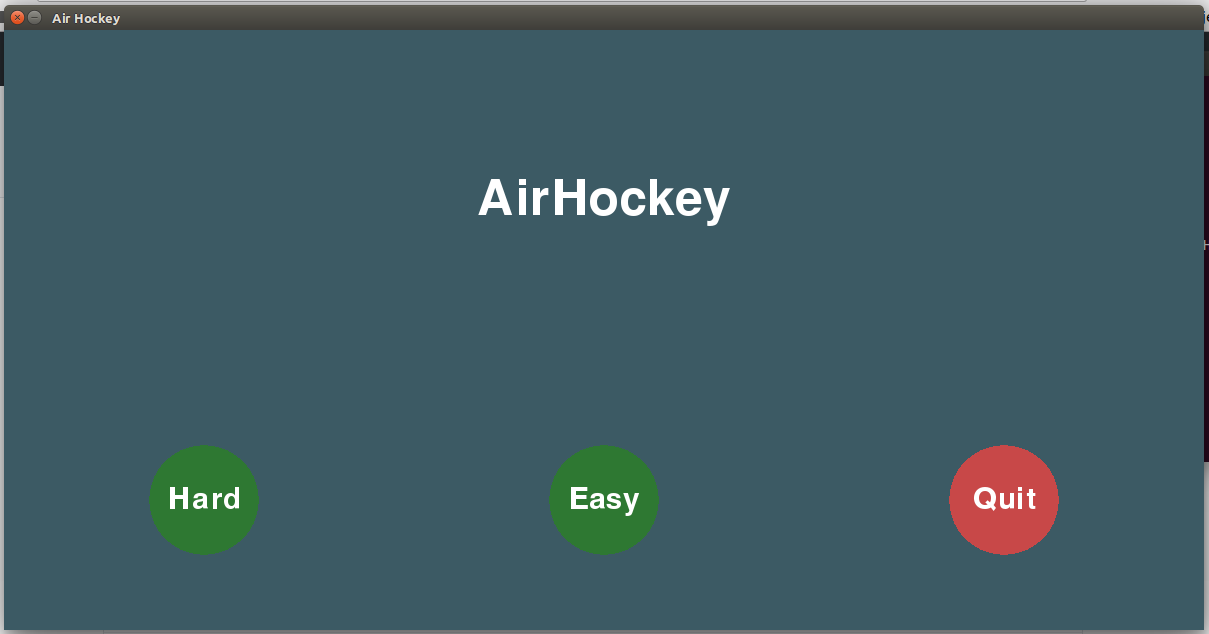
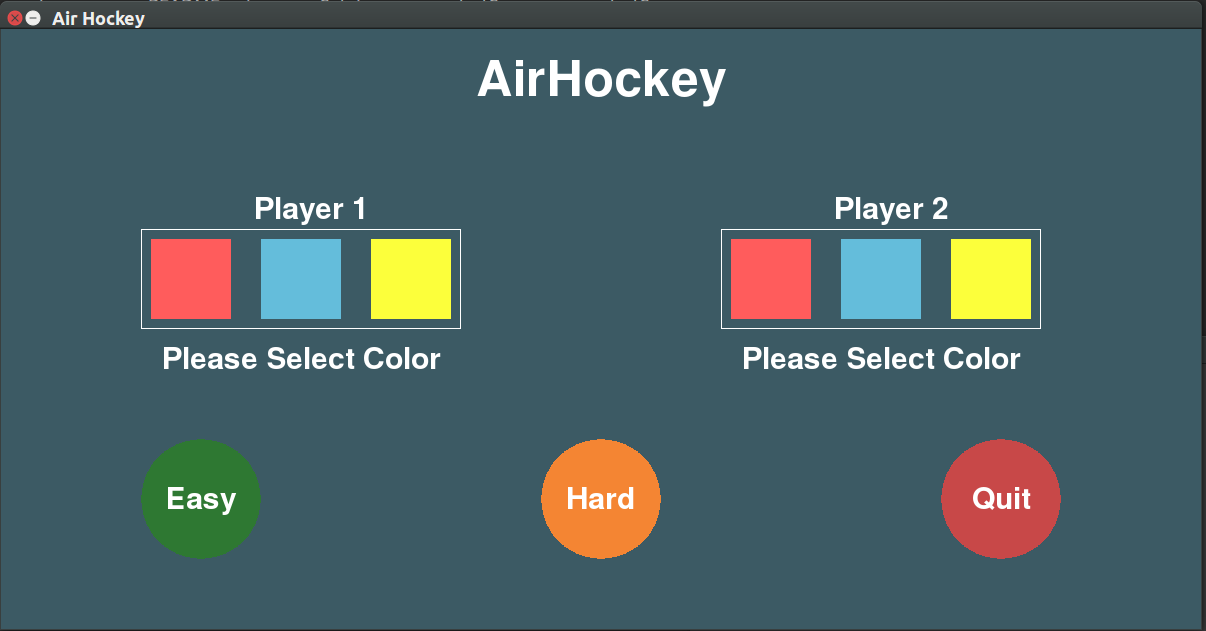
Multiple Changes and bug fixes
Fixes #111 #41 #78

diff --git a/startScreen.py b/startScreen.py
@@ -6,7 +6,7 @@ import sys
 #(dimgreen,green) , (dimred,red) , (dimblue,blue ) , (yellow,dimyellow), (orange, dimorange) 
 colors = [ [(46, 120, 50),(66, 152, 60)] , [(200, 72, 72),(255, 92, 92)] ,
            [(0, 158, 239),(100, 189, 219)] , [(221, 229, 2),(252, 255, 59)],
-           [(232, 114, 46),(244, 133, 51)]] 
+           [(232, 114, 46),(244, 133, 51)]]
 
 
 buttonRadius = 60
@@ -39,6 +39,13 @@ def dispText(screen, text, center, fontAndSize, color):
 
 # function for creating a start screen
 def airHockeyStart(screen, clock, Scrwidth, Scrheight):
+
+    # Player colors set to none initially
+    player1Color = None
+    player2Color = None
+    colorFlag1 = False
+    colorFlag2 = False
+
     while True:
         for event in pygame.event.get():
             if event.type == pygame.QUIT:
@@ -101,30 +108,56 @@ def airHockeyStart(screen, clock, Scrwidth, Scrheight):
                 pygame.draw.rect(screen, colors[x][1], (xposRectRight, yposRectRight, squareSide, squareSide))
             xposRectRight = xposRectRight + squareSide + 30
         if flagLeft == 1:
-            dispText(screen, "selected", (Scrwidth / 4  , yposRectLeft + 120), smallText, (255,255,255))
+            dispText(screen, "Color Selected", (Scrwidth / 4  , yposRectLeft + 120), smallText, player1Color)
         if flagRight == 2:
-            dispText(screen, "selected", (Scrwidth - Scrwidth/4, yposRectLeft + 120), smallText, (255,255,255))
+            dispText(screen, "Color selected", (Scrwidth - Scrwidth/4 - 20, yposRectLeft + 120), smallText, player2Color)
 
-        # difficulty button 'Hard'
-        if abs(mouse[0] - 200) < buttonRadius and abs(mouse[1] - 470) < buttonRadius:
-            buttonCircle(screen, colors[4][1], (200, 470), "Hard", largeText, (255, 255, 255),
-                         (Scrwidth / 2 -400 , Scrheight / 2 + 170))
-            if click[0] == 1:
-                return (2, player1Color, player2Color)
+        # To be displayed when colors not selected.
+        if player1Color == None:
+            if (colorFlag1 == False):
+                dispText(screen, "Please Select Color", (Scrwidth / 4, yposRectLeft + 120), smallText,
+                         (255, 255, 255))
+            else:
+                dispText(screen, "Color Not Selected!", (Scrwidth / 4, yposRectLeft + 120), smallText, (255, 100, 0))
 
-        else:
-            buttonCircle(screen, colors[4][0], (200, 470), "Hard", smallText, (255, 255, 255),
-                         (Scrwidth / 2 -400, Scrheight / 2 + 170))
+        if player2Color == None:
+            if (colorFlag2 == False):
+                dispText(screen, "Please Select Color", (Scrwidth - Scrwidth / 4 - 20, yposRectLeft + 120), smallText, (255, 255, 255))
+            else:
+                dispText(screen, "Color Not Selected!", (Scrwidth - Scrwidth / 4 - 20, yposRectLeft + 120), smallText, (255, 100, 0))
 
         # difficulty button 'Easy'
+        if abs(mouse[0] - 200) < buttonRadius and abs(mouse[1] - 470) < buttonRadius:
+            buttonCircle(screen, colors[0][0], (200, 470), "Easy", largeText, (255, 255, 255),
+                         (Scrwidth / 2 -400 , Scrheight / 2 + 170))
+            if click[0] == 1:
+                if player1Color == None or player2Color == None:
+                    if player1Color == None:
+                        colorFlag1 = True
+                    if player2Color == None:
+                        colorFlag2 = True
+                else:
+                    return (1, player1Color, player2Color)
+
+        else:
+            buttonCircle(screen, colors[0][0], (200, 470), "Easy", smallText, (255, 255, 255),
+                         (Scrwidth / 2 -400, Scrheight / 2 + 170))
+
+        # difficulty button 'Hard'
         if abs(mouse[0] - 600) < buttonRadius and abs(mouse[1] - 470) < buttonRadius:
-            buttonCircle(screen, colors[0][1], (600, 470), "Easy", largeText, (255, 255, 255),
+            buttonCircle(screen, colors[4][1], (600, 470), "Hard", largeText, (255, 255, 255),
                          (Scrwidth / 2 , Scrheight / 2 + 170))
             if click[0] == 1:
-                return (1, player1Color, player2Color)
+                if player1Color == None or player2Color == None:
+                    if player1Color == None:
+                        colorFlag1 = True
+                    if player2Color == None:
+                        colorFlag2 = True
+                else:
+                    return (2, player1Color, player2Color)
         
         else:
-            buttonCircle(screen, colors[0][0], (600, 470), "Easy", smallText, (255, 255, 255),
+            buttonCircle(screen, colors[4][1], (600, 470), "Hard", smallText, (255, 255, 255),
                          (Scrwidth / 2, Scrheight / 2 + 170))
 
         # quit button

diff --git a/README.md b/README.md
@@ -56,11 +56,13 @@ NOTE: The administrative permission is required to place the AHlogo.png file int
 
 ## GamePlay Help
 
-1. Choose your difficulty level at the start menu and start hitting.
+1. Choose each player's paddle color at the title screen.
+
+1. To start playing, click on the difficulty level.
 
 2. Each game comprises of three rounds, and the player who wins two (or more) rounds is the winner.
 
-3. During playtime, game can be paused anytime by pressing spacebar or clicking the pause icon on the screen.
+3. During playtime, game can be paused anytime by pressing SpaceBar or clicking the pause icon on the screen.
 
 ## Enjoy The Game
 
